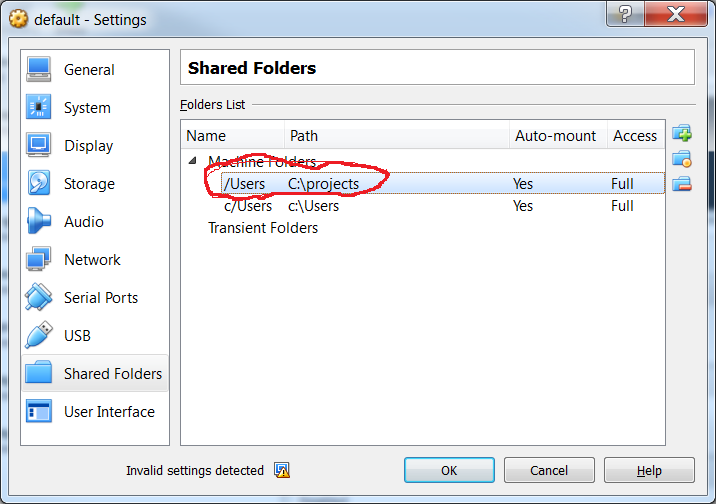
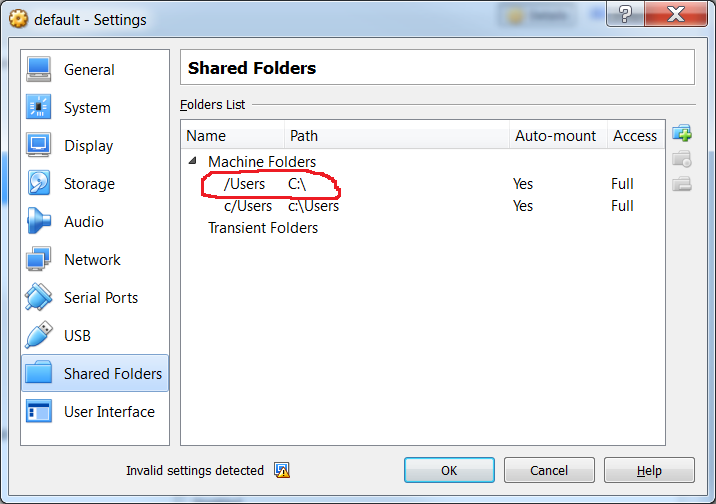
Updated README.md with VirtualBox shared folder section.

diff --git a/README.md b/README.md
@@ -1,10 +1,12 @@
 # dockerstartertest
 **IMPORTANT NOTE**
 - Be specially careful about "CR" and "LF" in Windows formatted text files. If you have a shell script that was created in Windows environment, take special care to remove all "CR" from the file. Linux will not be able to run shell script if it contains "CR" character. Using Notepad++ you can convert Windows formatted file into Unix easily. Open Notepad++ and go to menu "Edit">"EOL Conversion">"UNIX/OSX Format".
-- Careful about volume name path mapping between Windows and your virtual containers. Unix is case sensitive and Windows it not. When you declare volume information in "docker run" or in "docker-compose" commands use exact path with proper cases.
+- Careful about volume name path mapping between Windows and your virtual containers. Unix is case sensitive and Windows is not. When you declare volume information in "docker run" or in "docker-compose" commands use exact path with proper cases.
 
 ## Introduction
-This "how to" will show how to install Docker in a Windows machine with a super simple staic web site. We will use a simple Docker image for Apache. The tutorial is very simple to follow and easy to build and test. Only major thing you have to be careful is about sharing folders between your hosts, guest and containers. The virtual path in this tutorial is relative to my directory settings in my Windows environment. It may be different in your environment. You should be able to add your own custom path just by changing the "-v" switch when you invoke ```docker run```. Everything else, including adding a shared volume in VirtualBox machine should be standard. There are a lot of different ways to share folders but my intention was to create a convention that would reduce developer's pain by eliminating modification to buld files and runner commands as much as possible.
+This "how to" will show how to install Docker in a **Windows** machine with a super simple staic web site. We will use a simple Docker image for Apache. The tutorial is very simple to follow and easy to build and test. Only major thing you have to be careful is about sharing folders between your hosts, guest and containers. Docker machines are Unix based machine and runs native on Linux machines. Developers has to take care of some extra steps to expose Windows folders into Docker containers and images. This extra steps are needed due to the fact that Windows run Docker machine using a virtual enviornment like VirtualBox. 
+
+The virtual path in this tutorial is relative to my directory settings in my Windows environment. It may be different in your environment. You should be able to add your own custom path just by changing the "-v" switch when you invoke ```docker run```. Everything else, including adding a shared volume in VirtualBox machine should be standard. There are a lot of different ways to share folders but my intention was to create a convention that would reduce developer's pain by eliminating modification to buld files and runner commands as much as possible.
 
 ## Software Installs
 
@@ -35,7 +37,7 @@ Download and install [VirtualBox for Windows Host](https://www.virtualbox.org/wi
 For this tutorial we would assume our project folder is located at drive D: . Let us create a project folder using Windows Explorer as shown below.
 
 ``` bash
- D:\Projects\BitBrush\
+ D:\projects\bitbrushco
 ```
 
 ## Clone Git Project
@@ -52,29 +54,37 @@ Open VirtualBox GUI. There should be a VM named "default". This is the VM create
 
 > The first of the following share names that exists (if any) will be automatically mounted at the location specified:
 
-1. Users share at /Users
-2. /Users share at /Users
-3. c/Users share at /c/Users
-4. /c/Users share at /c/Users
-5. c:/Users share at /c/Users
+>	1. Users share at /Users
+>	2. /Users share at /Users
+>	3. c/Users share at /c/Users
+>	4. /c/Users share at /c/Users
+>	5. c:/Users share at /c/Users
 
+You will use **/Users** share and map it to D:\Projects folder. "D:\" drive. This arrangement is to make it easy and convenient for developers to share and update their source code between Windows and Docker containers. 
 
-##
+![VirtualBox Shared Folder]("/img/020_vb_shared_folder.png")
+
 
 ## Docker Run
+Now we would try to run a container and map our project folder which will contain a index.html page. The page will be served directly from container. 
 
 - First make sure container has been stopped.
-> docker stop $(docker ps -q)
+``` docker stop $(docker ps -q) ```
 
 - Remove container
-> docker rm $(docker ps -aq)
+``` docker rm $(docker ps -aq) ```
+
+- Start docker machine
+``` docker-machine start```
+
 
 - Run docker. This command is supposed to start a apache session. 
-
- ``` bash
- docker run -it --rm --name myapache -p 8080:80 -v /Users/BitBrush/dockerstartertest:/usr/local/apache2/htdocs/ httpd:2.4
-```
+``` bash docker run -it --rm --name myapache -p 8080:80 -v /Users/projects/bitbrushco/dockerstartertest:/usr/local/apache2/htdocs/ httpd:2.4 ```
 
 - Test apache by opening a browser and trying out http://192.168.99.100:8080/
+
+**NOTE:**
+The run statement simple. We have mapped our Windows folder that contains index.html file is "D:\projects\bitbrushco\dockerstartertest". Docker machine (i.e. boot2docker) sees the directory as "/Users/projects/bitbrushco/dockerstartertest". Remember that in previous steps we shared D:\ drive to /Users in VirtualBox. That step enabled boot2docker vm (the docker machine vm) to use the directory as volumes (i.e. the -v switch) to the running Docker container vm which in turn runs inside another vm boot2docker. This can be confusing since it involves multiple layers of nested virtual machines. Try with different working folder and try to expose them to your container and it will be clear to you eventually. 
+
 
 - This concludes a successful install test of Docker environment in your machine.
